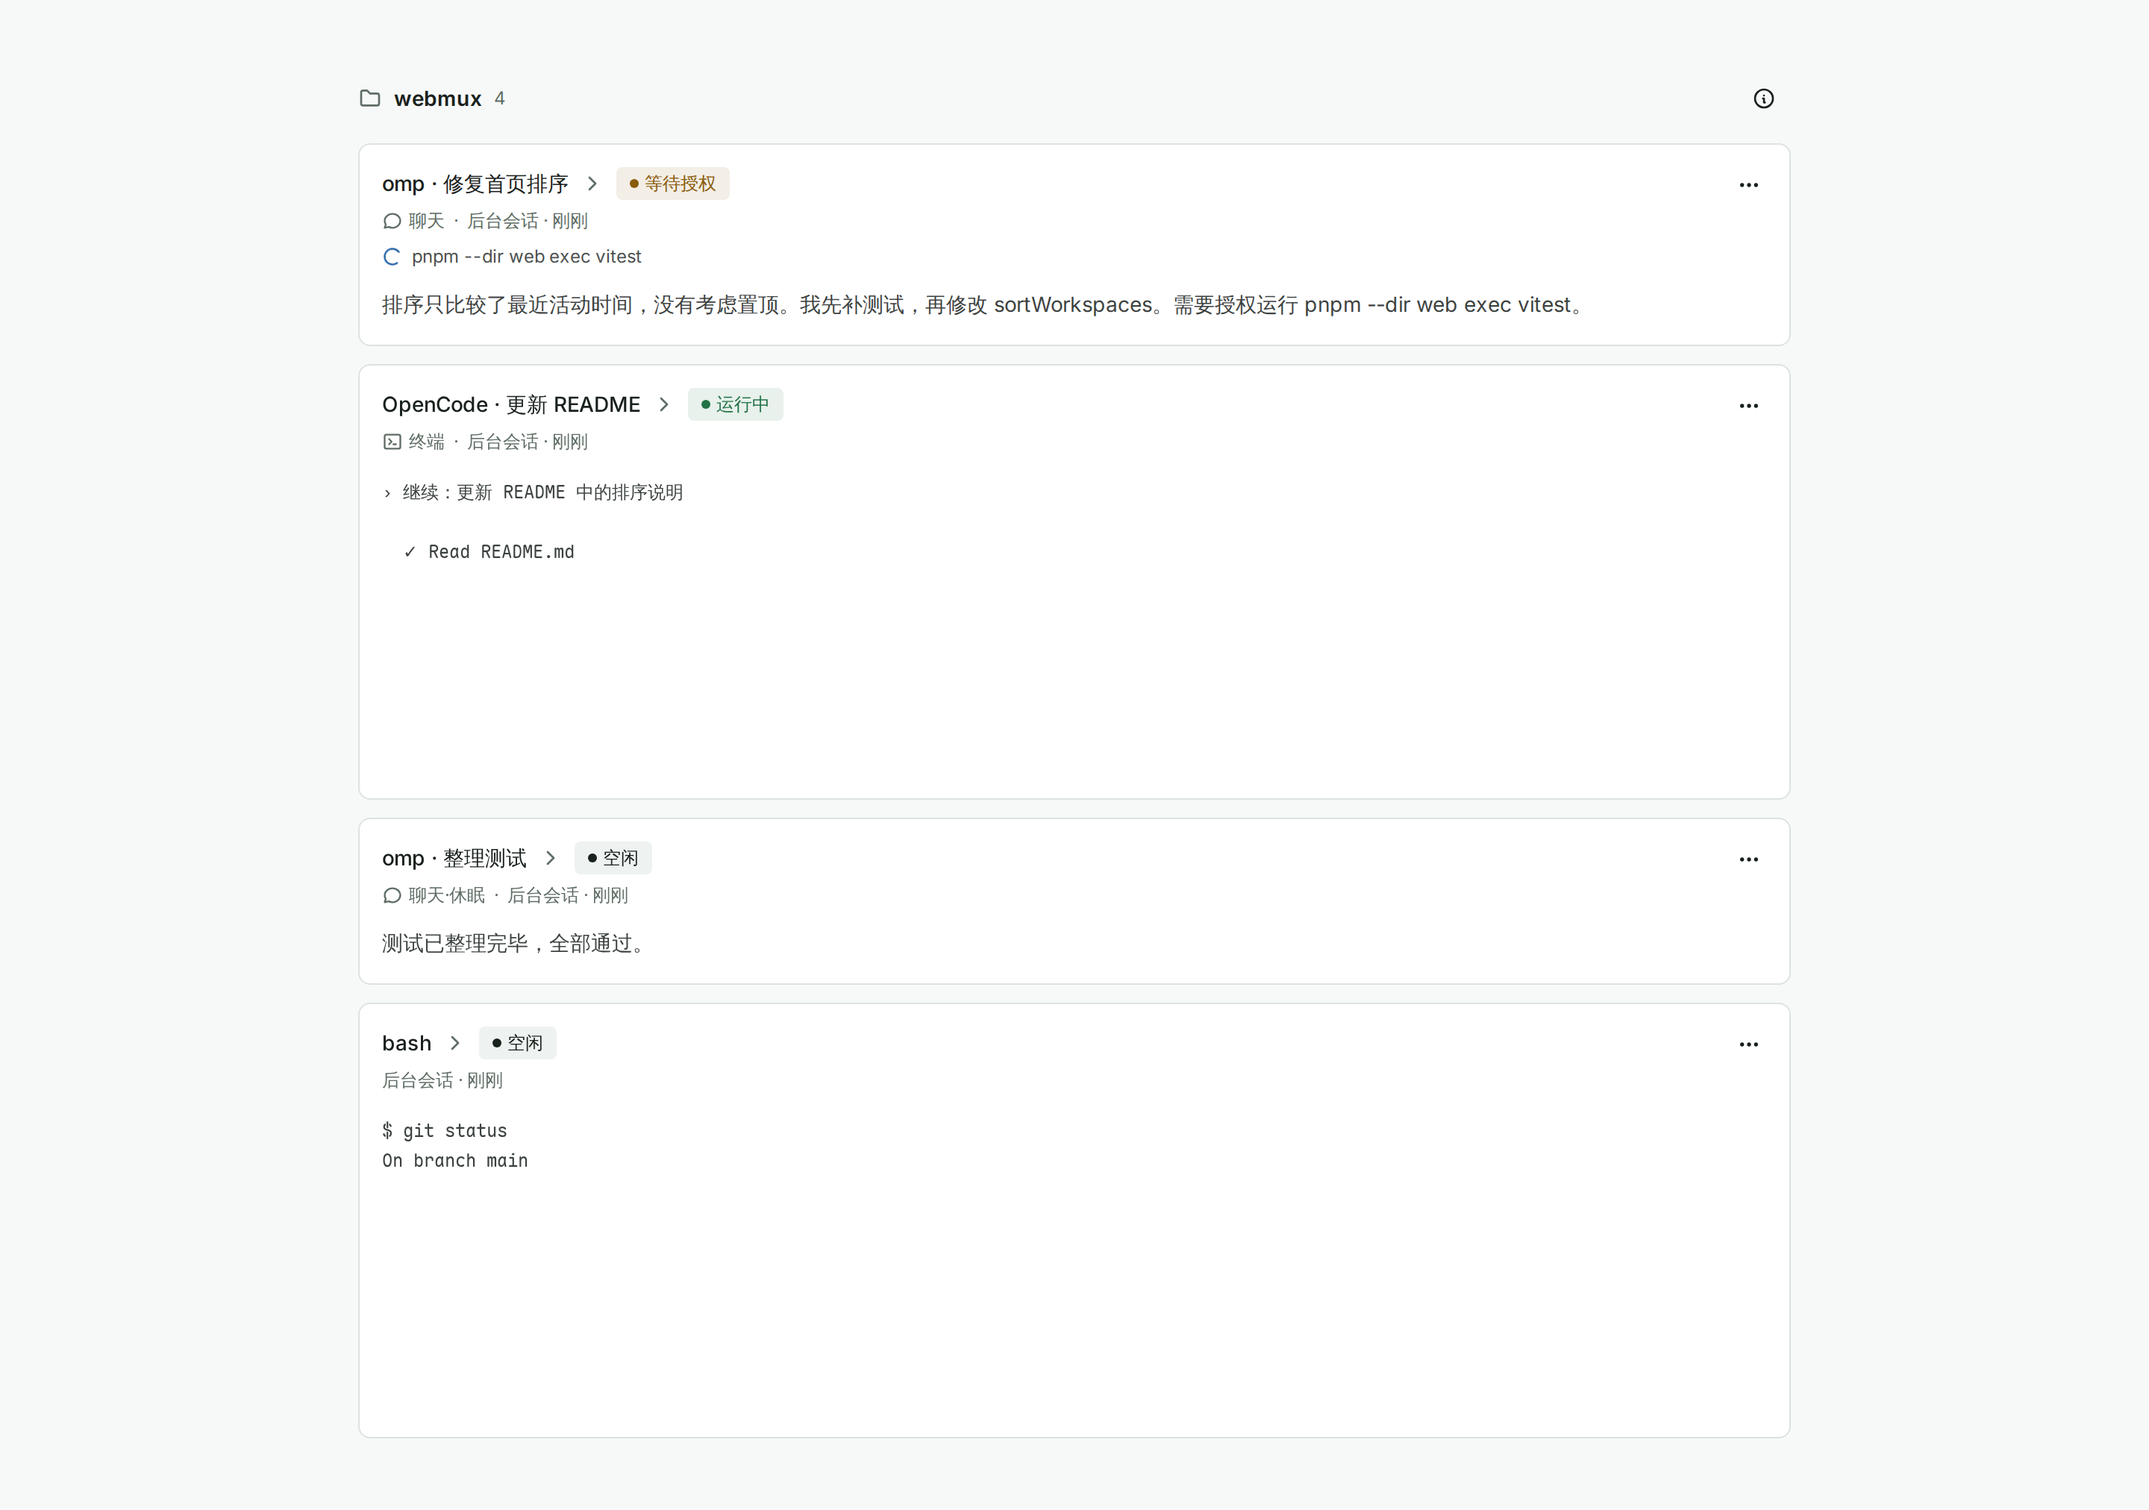
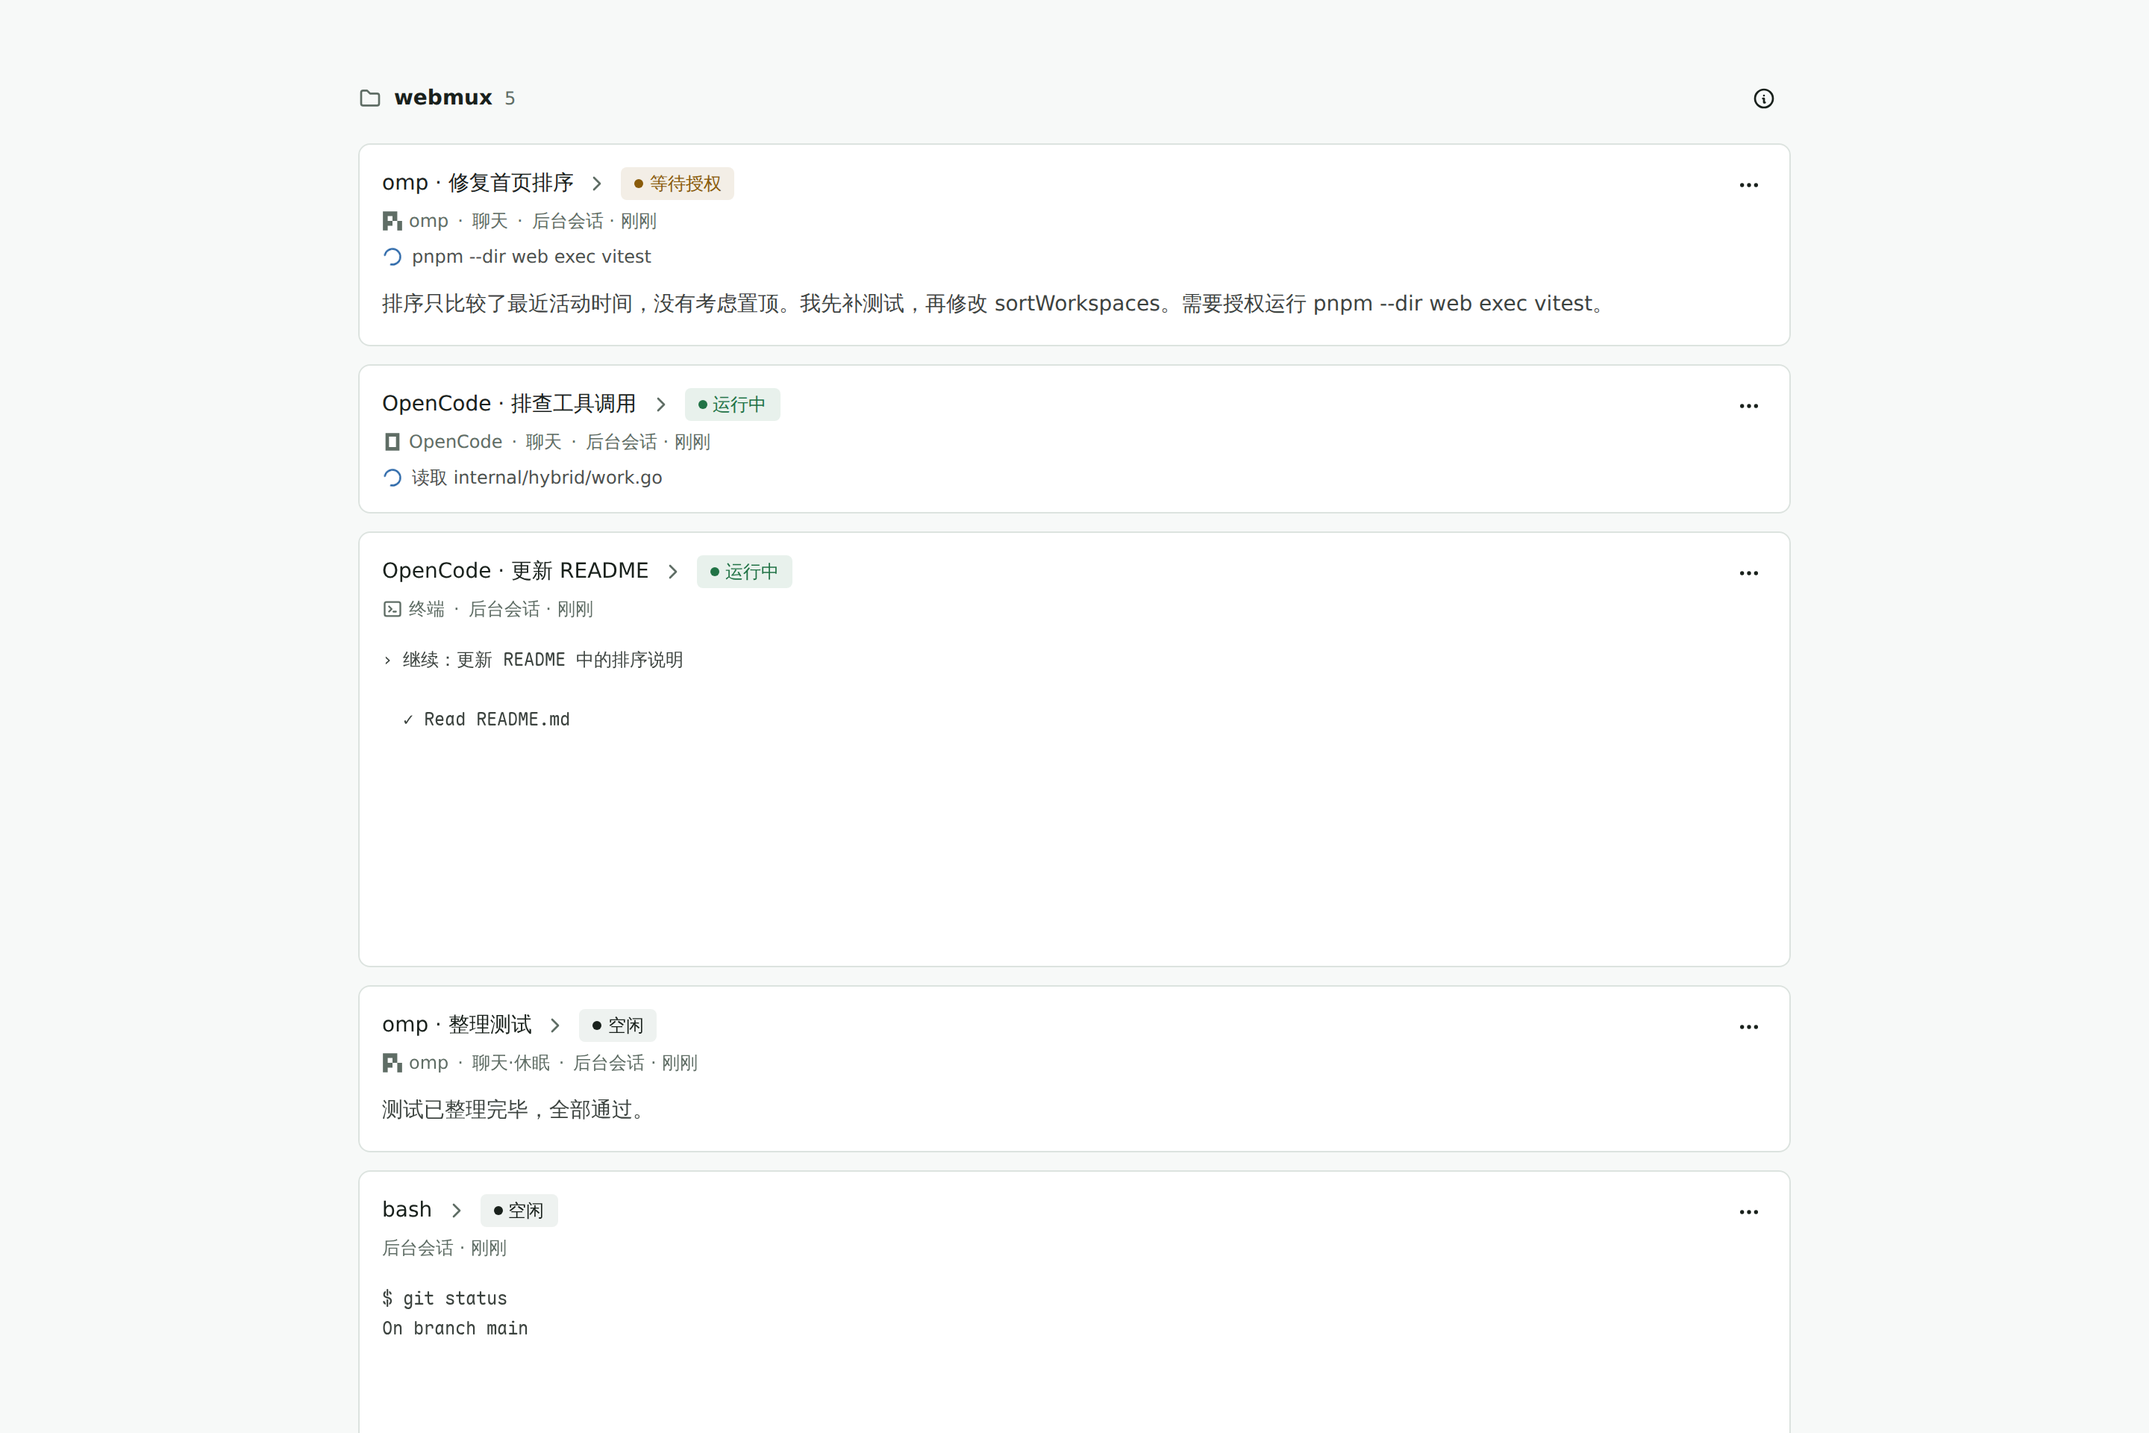
fix(hybrid): 修复聊天端会话卡片无预览底边距与工具调用工作细节展示 (#294)

diff --git a/web/test/browser/SessionRow.test.ts b/web/test/browser/SessionRow.test.ts
@@ -301,6 +301,8 @@ test("a working chat card shows its live work detail instead of a placeholder", 
   expect(work?.textContent).toContain("读取 internal/wire/wire.go");
   expect(page.getByText("等待 Agent 回复…").elements()).toHaveLength(0);
   expect(page.getByLabelText("最新消息预览").elements()).toHaveLength(0);
+  const link = document.querySelector("[data-session-link]");
+  expect(link && getComputedStyle(link).paddingBottom).toBe("16px");
 });
 
 test("a chat card without preview or work detail renders no message block", async () => {
@@ -318,6 +320,8 @@ test("a chat card without preview or work detail renders no message block", asyn
   expect(page.getByLabelText("当前工作").elements()).toHaveLength(0);
   expect(page.getByLabelText("最新消息预览").elements()).toHaveLength(0);
   expect(page.getByText("等待 Agent 回复…").elements()).toHaveLength(0);
+  const link = document.querySelector("[data-session-link]");
+  expect(link && getComputedStyle(link).paddingBottom).toBe("16px");
 });
 
 test("terminal-side and switching hybrid cards keep the agent and the terminal preview", async () => {

diff --git a/web/src/components/SessionRow.svelte b/web/src/components/SessionRow.svelte
@@ -88,6 +88,7 @@
 >
   <a
     data-session-link
+    class:pb-4={!compact && chat}
     class="group block w-full min-w-0 rounded-lg outline-none focus-visible:ring-2 focus-visible:ring-ring focus-visible:ring-offset-2 focus-visible:ring-offset-background"
     aria-label={session.title}
     href={`/s/${session.id}`}
@@ -191,7 +192,7 @@
         {#if session.preview}
           <p
             aria-label="最新消息预览"
-            class="mt-3 line-clamp-3 min-w-0 px-4 pb-4 text-sm leading-6 break-words whitespace-pre-line text-foreground/85"
+            class="mt-3 line-clamp-3 min-w-0 px-4 text-sm leading-6 break-words whitespace-pre-line text-foreground/85"
           >
             {session.preview}
           </p>

diff --git a/web/stories/acp/HybridHome.svelte b/web/stories/acp/HybridHome.svelte
@@ -48,6 +48,19 @@
     },
     {
       ...base,
+      id: "hybridwk",
+      generation: "",
+      title: "OpenCode · 排查工具调用",
+      cmd: ["opencode"],
+      status: "running",
+      attention: null,
+      preview: "",
+      hybrid: hybrid("opencode", "acp", {
+        work: "读取 internal/hybrid/work.go",
+      }),
+    },
+    {
+      ...base,
       id: "hybridtu",
       title: "OpenCode · 更新 README",
       cmd: ["opencode"],

diff --git a/internal/hybrid/actor.go b/internal/hybrid/actor.go
@@ -164,6 +164,7 @@ type pending struct {
 	epoch  int
 	kind   string
 	build  func(id string) Request
+	tool   *Tool
 	req    Request
 	since  time.Time
 	answer chan Answer
@@ -410,7 +411,9 @@ func (a *actor) emit(events ...Event) {
 		case EventTool:
 			// Tool calls only matter to the session card's work
 			// line; flush only when it changes.
-			a.work.tool(*e.Tool)
+			if a.turn != nil {
+				a.work.tool(*e.Tool)
+			}
 			toolsOnly = true
 		default:
 			continue
@@ -632,7 +635,8 @@ func (h *handler) SessionUpdate(n acp.SessionNotification) {
 }
 
 func (h *handler) RequestPermission(ctx context.Context, req acp.RequestPermissionRequest) (acp.RequestPermissionResponse, error) {
-	ans, err := h.ask(ctx, RequestPermission, func(id string) Request { return permissionRequest(id, req) })
+	tool := toolPatch(req.ToolCall)
+	ans, err := h.ask(ctx, RequestPermission, &tool, func(id string) Request { return permissionRequest(id, req) })
 	if err != nil {
 		return acp.RequestPermissionResponse{}, err
 	}
@@ -647,7 +651,7 @@ func (h *handler) CreateElicitation(ctx context.Context, req acp.CreateElicitati
 		// Only form mode is advertised.
 		return acp.CreateElicitationResponse{Action: acp.ElicitDecline}, nil
 	}
-	ans, err := h.ask(ctx, RequestForm, func(id string) Request { return formRequest(id, req) })
+	ans, err := h.ask(ctx, RequestForm, nil, func(id string) Request { return formRequest(id, req) })
 	if err != nil {
 		return acp.CreateElicitationResponse{}, err
 	}
@@ -663,8 +667,8 @@ func (h *handler) CreateElicitation(ctx context.Context, req acp.CreateElicitati
 // ask opens a request on the actor and waits for its answer. The agent
 // withdrawing it (ctx) closes it as cancelled; a stopped actor answers
 // cancelled.
-func (h *handler) ask(ctx context.Context, kind string, build func(id string) Request) (Answer, error) {
-	p := &pending{epoch: h.epoch, kind: kind, build: build, answer: make(chan Answer, 1)}
+func (h *handler) ask(ctx context.Context, kind string, tool *Tool, build func(id string) Request) (Answer, error) {
+	p := &pending{epoch: h.epoch, kind: kind, build: build, tool: tool, answer: make(chan Answer, 1)}
 	if !h.a.post(func() { h.a.openRequest(p) }) {
 		return cancelledAnswer(kind), nil
 	}
@@ -717,6 +721,10 @@ func (a *actor) openRequest(p *pending) {
 	if p.epoch != a.epoch || a.closing || a.stopped {
 		p.answer <- cancelledAnswer(p.kind)
 		return
+	}
+	if p.tool != nil && a.turn != nil {
+		a.work.tool(*p.tool)
+		a.refreshWork()
 	}
 	a.nextRequest++
 	p.req, p.since = p.build("r"+strconv.Itoa(a.nextRequest)), time.Now().UTC()
@@ -885,6 +893,7 @@ func (a *actor) send(text string, attachments []Attachment) (PromptResult, error
 	ctx, cancel := context.WithCancel(context.Background())
 	t := &turn{id: result.TurnID, cancel: cancel, done: make(chan struct{})}
 	a.turn = t
+	a.work.endTurn()
 	startedAt := time.Now().UTC()
 	a.chat.Turn = Turn{Running: true, TurnID: t.id, StartedAt: &startedAt}
 	a.dirty = true

diff --git a/internal/hybrid/work_test.go b/internal/hybrid/work_test.go
@@ -31,6 +31,28 @@ func TestWorkLinePrefersLatestActiveTool(t *testing.T) {
 	if got := w.line(); got != "Read README.md" {
 		t.Fatalf("falling back to the remaining active call: %q", got)
 	}
+	// Once every call in the turn has completed, the latest completed call
+	// remains visible while the LLM thinks between tool calls.
+	w.tool(Tool{ToolCallID: "a", Status: &done})
+	if got := w.line(); got != "执行" {
+		t.Fatalf("falling back to the latest completed call in the turn: %q", got)
+	}
+}
+
+func TestWorkLineDefaultPendingAndSparsePatch(t *testing.T) {
+	var w workTracker
+	// A new tool_call without an explicit status defaults to pending, and
+	// a later status patch with empty title/locations keeps the earlier ones.
+	w.tool(Tool{ToolCallID: "a", Kind: strPtr("edit"), Title: strPtr("Edit service.go"), Locations: []Location{{Path: "/repo/service.go"}}})
+	if got := w.line(); got != "Edit service.go" {
+		t.Fatalf("default pending tool line: %q", got)
+	}
+	inProgress := "in_progress"
+	empty := ""
+	w.tool(Tool{ToolCallID: "a", Kind: &empty, Title: &empty, Status: &inProgress, Locations: []Location{}})
+	if got := w.line(); got != "Edit service.go" {
+		t.Fatalf("sparse patch preserved title: %q", got)
+	}
 }
 
 func TestWorkLineToolTitleWins(t *testing.T) {
@@ -111,15 +133,35 @@ func TestHybridWorkDetailDuringTurn(t *testing.T) {
 	h := newHarness(t, 0)
 	s := h.create(h.input(omp.Name, SideACP, "FAKEAGENT_TURN_DELAY=300ms"))
 	id := s.Info().ID
+	listSub := h.svc.manager.Subscribe()
+	defer h.svc.manager.Unsubscribe(listSub)
 	st := h.follow(id)
 	prompt(t, h, id, "hello")
-	waitFor(t, "work detail", func() bool {
-		i := s.Info()
-		return i.Hybrid != nil && i.Hybrid.Work == "Read file"
+	waitFor(t, "work detail published to session list", func() bool {
+		for {
+			select {
+			case ev := <-listSub.Out:
+				if ev.Type == "updated" && ev.Session != nil && ev.Session.ID == id &&
+					ev.Session.Hybrid != nil && ev.Session.Hybrid.Work == "Read file" {
+					return true
+				}
+			default:
+				return false
+			}
+		}
 	})
 	st.until("turn end", hasKind(EventTurnEnd))
-	waitFor(t, "work cleared", func() bool {
-		i := s.Info()
-		return i.Hybrid != nil && i.Hybrid.Work == ""
+	waitFor(t, "work cleared in session list", func() bool {
+		for {
+			select {
+			case ev := <-listSub.Out:
+				if ev.Type == "updated" && ev.Session != nil && ev.Session.ID == id &&
+					ev.Session.Hybrid != nil && ev.Session.Hybrid.Work == "" {
+					return true
+				}
+			default:
+				return false
+			}
+		}
 	})
 }

diff --git a/internal/hybrid/work.go b/internal/hybrid/work.go
@@ -38,18 +38,19 @@ func (w *workTracker) tool(t Tool) {
 	}
 	prev, ok := w.tools[t.ToolCallID]
 	if !ok {
+		prev.status = "pending"
 		w.order = append(w.order, t.ToolCallID)
 	}
-	if t.Kind != nil {
+	if t.Kind != nil && *t.Kind != "" {
 		prev.kind = *t.Kind
 	}
-	if t.Title != nil {
+	if t.Title != nil && oneLine(*t.Title) != "" {
 		prev.title = *t.Title
 	}
 	if t.Status != nil {
 		prev.status = *t.Status
 	}
-	if t.Locations != nil {
+	if len(t.Locations) > 0 {
 		prev.locations = prev.locations[:0]
 		for _, l := range t.Locations {
 			prev.locations = append(prev.locations, l.Path)
@@ -78,27 +79,28 @@ func (w *workTracker) prune() {
 	}
 }
 
-// endTurn marks every unfinished tool call as failed, so the next turn's
-// work line does not resurrect an interrupted call.
+// endTurn clears the finished turn's tool calls so the next turn starts clean.
 func (w *workTracker) endTurn() {
-	for i := range w.order {
-		t := w.tools[w.order[i]]
-		if t.status == "pending" || t.status == "in_progress" {
-			t.status = "failed"
-			w.tools[w.order[i]] = t
-		}
-	}
+	clear(w.tools)
+	w.order = w.order[:0]
 }
 
 // setPlan records the latest plan.
 func (w *workTracker) setPlan(p *Plan) { w.plan = p }
 
 // line is the current work, or "" when nothing is in flight. A running or
-// pending tool call takes precedence over the plan's in-progress step.
+// pending tool call takes precedence over a completed call from the same
+// turn, which in turn takes precedence over the plan's in-progress step.
 func (w *workTracker) line() string {
 	for i := len(w.order) - 1; i >= 0; i-- {
 		t := w.tools[w.order[i]]
 		if t.status == "pending" || t.status == "in_progress" {
+			return renderTool(t)
+		}
+	}
+	for i := len(w.order) - 1; i >= 0; i-- {
+		t := w.tools[w.order[i]]
+		if t.status == "completed" {
 			return renderTool(t)
 		}
 	}

diff --git a/internal/hybrid/translate.go b/internal/hybrid/translate.go
@@ -142,13 +142,7 @@ func (t *translator) update(u acp.Update) []Event {
 		}
 		return []Event{{Kind: EventTool, Tool: &tool}}
 	case *acp.ToolCallUpdate:
-		tool := Tool{ToolCallID: u.ToolCallID, Kind: cappedPtr(u.Kind), Title: cappedPtr(u.Title), Status: toolStatus(u.Status)}
-		if u.Content != nil {
-			tool.Content = toolContents(u.Content)
-		}
-		if u.Locations != nil {
-			tool.Locations = locations(u.Locations)
-		}
+		tool := toolPatch(*u)
 		return []Event{{Kind: EventTool, Tool: &tool}}
 	case *acp.Plan:
 		plan := Plan{Entries: make([]PlanEntry, len(u.Entries))}
@@ -273,6 +267,17 @@ func toolStatus(s *string) *string {
 		return &v
 	}
 	return nil
+}
+
+func toolPatch(u acp.ToolCallUpdate) Tool {
+	tool := Tool{ToolCallID: u.ToolCallID, Kind: cappedPtr(u.Kind), Title: cappedPtr(u.Title), Status: toolStatus(u.Status)}
+	if u.Content != nil {
+		tool.Content = toolContents(u.Content)
+	}
+	if u.Locations != nil {
+		tool.Locations = locations(u.Locations)
+	}
+	return tool
 }
 
 func toolContents(in []acp.ToolCallContent) []Content {

diff --git a/internal/session/status_test.go b/internal/session/status_test.go
@@ -94,6 +94,32 @@ func TestReportedCwdParticipatesInDisplayComparison(t *testing.T) {
 	}
 }
 
+func TestHybridMetadataParticipatesInDisplayComparison(t *testing.T) {
+	id := "ses_1"
+	a := Info{Hybrid: &HybridInfo{
+		Side: "acp", State: "active", Agent: "omp",
+		AgentTitle: "omp", AgentIcon: "pi", AgentSessionID: &id,
+	}}
+	b := Info{Hybrid: a.Hybrid.clone()}
+	if !sameDisplay(a, b) {
+		t.Fatal("equal hybrid values were compared by pointer")
+	}
+	b.Hybrid.Work = "读取 internal/wire/wire.go"
+	if sameDisplay(a, b) {
+		t.Fatal("hybrid work change was invisible")
+	}
+	b.Hybrid.Work = ""
+	b.Hybrid.AgentTitle = "OpenCode"
+	if sameDisplay(a, b) {
+		t.Fatal("hybrid agent title change was invisible")
+	}
+	b.Hybrid.AgentTitle = "omp"
+	b.Hybrid.AgentIcon = "opencode"
+	if sameDisplay(a, b) {
+		t.Fatal("hybrid agent icon change was invisible")
+	}
+}
+
 func TestStatusComposition(t *testing.T) {
 	now := time.Now()
 	patterns := []*regexp.Regexp{regexp.MustCompile(`[$?]$`)}

diff --git a/internal/session/status.go b/internal/session/status.go
@@ -139,7 +139,9 @@ func sameHybrid(a, b *HybridInfo) bool {
 		return a == b
 	}
 	return a.Side == b.Side && a.Phase == b.Phase && a.Dormant == b.Dormant &&
-		a.State == b.State && a.Agent == b.Agent && sameString(a.AgentSessionID, b.AgentSessionID)
+		a.State == b.State && a.Agent == b.Agent &&
+		a.AgentTitle == b.AgentTitle && a.AgentIcon == b.AgentIcon &&
+		sameString(a.AgentSessionID, b.AgentSessionID) && a.Work == b.Work
 }
 
 func sameString(a, b *string) bool {

diff --git a/docs/user-stories/hybrid-sessions.md b/docs/user-stories/hybrid-sessions.md
@@ -94,7 +94,7 @@
   - 发送或答复后清除；
   - 状态取 running/waiting/idle；
   - 现有 Web Push 照常推送，不新增通道；
-  - 首页卡片标出所在端（终端、聊天、聊天·休眠、切换中），聊天端以最新 agent 消息（最多三行）代替终端预览，回合进行中另起一行显示当前工作（当前工具调用标题，或无标题时按种类与首个位置，或进行中的计划步骤；回合结束即消失），分组与排序不变。
+  - 首页卡片标出所在端（终端、聊天、聊天·休眠、切换中），聊天端以最新 agent 消息（最多三行）代替终端预览，回合进行中另起一行显示当前工作（本轮当前或最近完成的工具调用标题，或无标题时按种类与首个位置，或进行中的计划步骤；回合结束即消失），分组与排序不变。
 - **US-Q10 异常与登录**：作为使用者，我希望 agent 进程意外退出或需要登录时得到确定的结果，以便知道下一步怎么做。
   验收要点：
   - TUI 自行退出（含 `/exit` 与崩溃）时会话标记为已中断，保留最后终端输出并提供恢复到聊天或终端，不自动切换；

diff --git a/docs/user-stories/verification-log-2026-11.md b/docs/user-stories/verification-log-2026-11.md
@@ -249,3 +249,8 @@
 - 通过：`SessionRow` 与 `SessionListRecoverable` 浏览器测试（18 项）、`pnpm --dir web check`、`check:arch`、`make docs-check`。
 - 截图：Storybook “Workspace/Hybrid home” 示例数据，桌面 1280px 与手机 390px、明暗主题前后对比。
 - 限制：未在真实服务中手动执行“恢复到终端”；未重新核验其余故事能力。
+
+本次局部核对（2026-11-04）：修复聊天端会话卡片无最新消息预览时的底部边距，并使 `HybridInfo.Work` 参与会话显示比对与回合内工具调用跟踪，对应 US-C02、US-Q09，不新增故事或改变覆盖索引。
+
+- 依据：`internal/session`（`TestHybridMetadataParticipatesInDisplayComparison`）与 `internal/hybrid`（`TestWork*`、`TestHybridWorkDetailDuringTurn` 会话列表事件断言）的 Go race 测试；`SessionRow` 浏览器用例（16 项，含无预览卡片底边距断言）、`acp-chat.spec.ts` Storybook 用例、`make check` 通过。
+- 限制：未重新核验其余故事能力。
